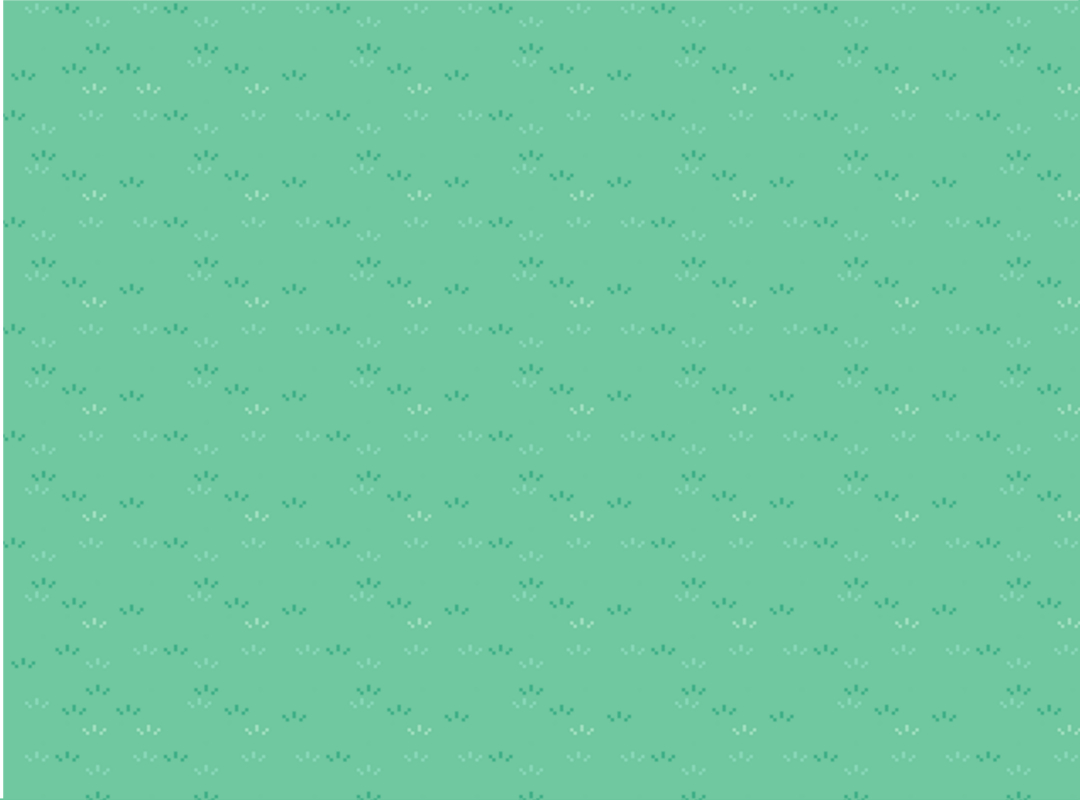
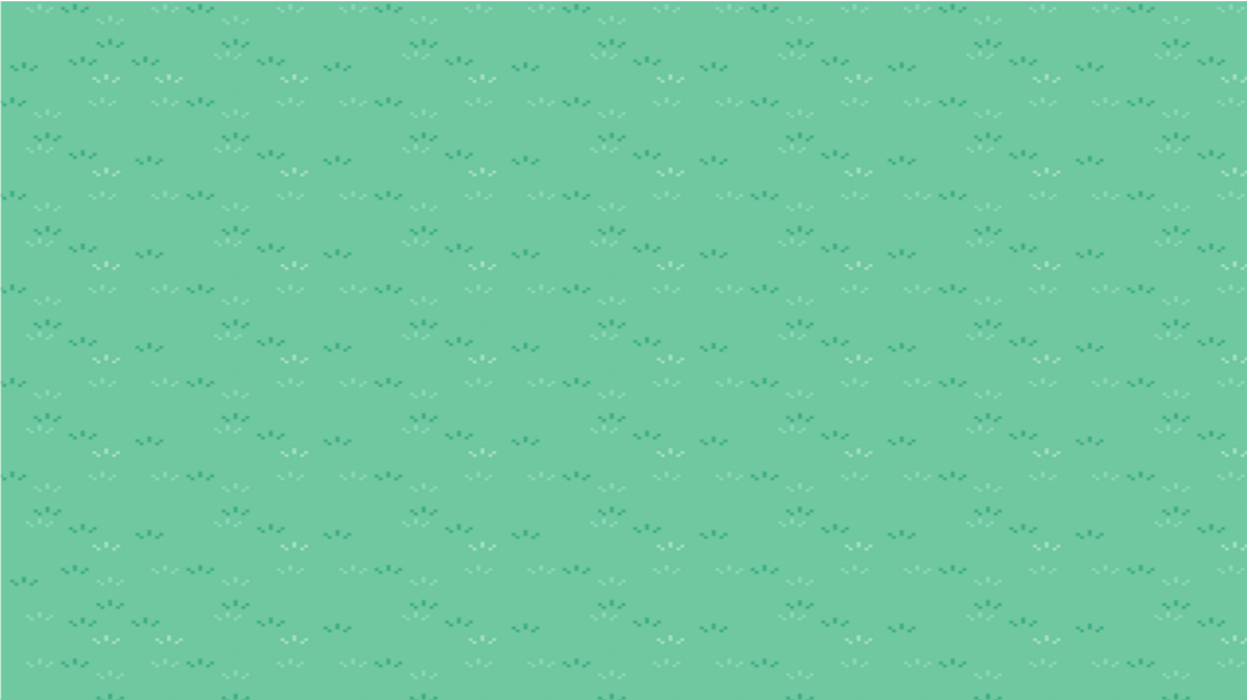
Amélioration de l'animation des projectiles et ajout d'un menu d'information (a completer) et introduire la class Menu (à détailler)

diff --git a/affichage.py b/affichage.py
@@ -2,7 +2,7 @@
 #encoding: utf8
 
 from joueur import *
-
+from menu import *
 class Affichage_fenetre:
 	def __init__(self, joueur):
 		self.projectile = []
@@ -10,20 +10,22 @@ class Affichage_fenetre:
 		self._tableau_type_armee = [1] # la position i de ce tableau renvoie le nombre de soldats de type i dans l'armee qui passe actuellement
 		self._listenoms_soldats = [[["images/armee/boss/boss_bas.png", "images/armee/boss/boss_bas_pd.png", "images/armee/boss/boss_bas_pg.png"], ["images/armee/boss/boss_gauche.png", "images/armee/boss/boss_gauche_pd.png", "images/armee/boss/boss_gauche_pg.png"], ["images/armee/boss/boss_haut.png", "images/armee/boss/boss_haut_pd.png", "images/armee/boss/boss_haut_pg.png"], ["images/armee/boss/boss_droite.png", "images/armee/boss/boss_droite_pd.png", "images/armee/boss/boss_droite_pg.png"]]]
 		self._joueur = joueur
-		self._fenetre = pygame.display.set_mode((self._joueur._carte._largeur, self._joueur._carte._hauteur))
+		self._fenetre = pygame.display.set_mode((self.carte.largeur, self.carte.hauteur+150))	# A MODIFIER
 		self._nb_decor = [5, 5] # 10 Rochers, 5 Arbres
 		self._liste_rochers = []
 		self._liste_arbre = []
 		self._bases = []
 		liste_x = [self.carte.nb_cases_l//10+3, (2*self.carte.nb_cases_l//5+3*self.carte.nb_cases_l//5)//2, 4*self.carte.nb_cases_l//5-2]
 		for x in liste_x:
-			pos_base = self._joueur._carte.positionner_objet((x, 0))
+			pos_base = self.carte.positionner_objet((x, 0))
 			self._bases.append(Base(pos_base, self._joueur))
-		self._places_construction = [(10,10), (15, 10), (3, 2)] # A MODIFIER
+		self._places_construction = [(11,10), (16, 10), (4, 2)] # A MODIFIER
 		self._chemin = []
+
 	@property
 	def carte(self):
 		return self._joueur._carte
+
 	@property
 	def joueur(self):
 		return self._joueur
@@ -31,23 +33,23 @@ class Affichage_fenetre:
 		element = pygame.image.load(nom_image).convert_alpha()
 		if "tour" in nom_image or "arbre" in nom_image:
 			self._fenetre.blit(element, (position[0], position[1]-\
-			self._joueur._carte._hauteur/self._joueur._carte.nb_cases_h))
+			self.carte.hauteur/self.carte.nb_cases_h))
 		else:
 			self._fenetre.blit(element, position)
 
 	def genere_decor(self):
 		for i in range(self._nb_decor[0]):
-			tmp1, tmp2 = np.random.randint(self._joueur._carte.nb_cases_l-1), np.random.randint(self._joueur._carte.nb_cases_h-1)
-			while self._joueur._carte[tmp1, tmp2] != "herbe":
-				tmp1, tmp2 = np.random.randint(self._joueur._carte.nb_cases_l-1), np.random.randint(self._joueur._carte.nb_cases_h-1)
-			pos_x, pos_y = self._joueur._carte.positionner_objet((tmp1,tmp2))
+			tmp1, tmp2 = np.random.randint(self.carte.nb_cases_l-1), np.random.randint(self.carte.nb_cases_h-1)
+			while self.carte[tmp1, tmp2] != "herbe":
+				tmp1, tmp2 = np.random.randint(self.carte.nb_cases_l-1), np.random.randint(self.carte.nb_cases_h-1)
+			pos_x, pos_y = self.carte.positionner_objet((tmp1,tmp2))
 			self._joueur._carte[tmp1, tmp2] = "decor" # La case devient un decor
 			self._liste_rochers.append((pos_x, pos_y))
 		for i in range(self._nb_decor[1]):
-			tmp1, tmp2 = np.random.randint(self._joueur._carte.nb_cases_l-1), np.random.randint(self._joueur._carte.nb_cases_h-1)
-			while self._joueur._carte[tmp1, tmp2] != "herbe":
-				tmp1, tmp2 = np.random.randint(self._joueur._carte.nb_cases_l-1), np.random.randint(self._joueur._carte.nb_cases_h-1)
-			pos_x, pos_y = self._joueur._carte.positionner_objet((tmp1,tmp2))
+			tmp1, tmp2 = np.random.randint(self.carte.nb_cases_l-1), np.random.randint(self.carte.nb_cases_h-1)
+			while self.carte[tmp1, tmp2] != "herbe":
+				tmp1, tmp2 = np.random.randint(self.carte.nb_cases_l-1), np.random.randint(self.carte.nb_cases_h-1)
+			pos_x, pos_y = self.carte.positionner_objet((tmp1,tmp2))
 			self._joueur._carte[tmp1, tmp2] = "decor" # La case devient un decor
 			self._liste_arbre.append((pos_x, pos_y))
 
@@ -112,20 +114,20 @@ class Affichage_fenetre:
 		# Affichage bases :
 		for b in self._bases:
 			self.ajouter_element("images/interface/base.png", b._position)
-			self._joueur._carte[self._joueur._carte.objet_dans_case(b._position)] = "base"
+			self._joueur._carte[self.carte.objet_dans_case(b._position)] = "base"
 		for pos in self._liste_rochers:
 			self.ajouter_element("images/interface/rock.png", pos)
-			self._joueur._carte[self._joueur._carte.objet_dans_case(pos)] = "decor"
+			self._joueur._carte[self.carte.objet_dans_case(pos)] = "decor"
 		# Affichage place de construction : A COMPLETER !
 		for pc in self._places_construction:
-			if self._joueur._carte[pc] != "tour":
-				pos_x, pos_y = self._joueur._carte.positionner_objet(pc)
+			if self.carte[pc] != "tour":
+				pos_x, pos_y = self.carte.positionner_objet(pc)
 				self._joueur._carte[pc] = "place construction" # La case devient une place de construction
 				self.ajouter_element("images/interface/place_construction.png", (pos_x, pos_y))
 		for pos in self._liste_arbre:
 			self.ajouter_element("images/interface/arbre.png", pos)
-			self._joueur._carte[self._joueur._carte.objet_dans_case(pos)] = "decor"
-		for T in self._joueur._liste_tours:
+			self._joueur._carte[self.carte.objet_dans_case(pos)] = "decor"
+		for T in self.joueur.liste_tours:
 			self.ajouter_element(self._listenoms_tours[T._id_tour], T._position)
 
 	def affichage_armee(self, armee):
@@ -138,4 +140,9 @@ class Affichage_fenetre:
 					self.ajouter_element(self._listenoms_soldats[type_soldat][soldat._direction][anim_soldat], soldat._position)
 	def affichage_projectile(self,projectile):
 		# im_projectile = pygame.image.load("images/tours/balle.png").convert_alpha()
-		self.ajouter_element("images/tours/balle.png",projectile._position)
+		if projectile._position != projectile._arrivee:
+			self.ajouter_element("images/tours/balle.png",projectile._position)
+
+	def affichage_menu(self):
+		pos_menu = self.carte.positionner_objet((0, 14))
+		self.ajouter_element("images/interface/menu_bas2.jpg", pos_menu)

diff --git a/tours.py b/tours.py
@@ -61,15 +61,15 @@ class Projectile():
     '''
     def __init__(self, position_Tour, position_Cible, id_projectile, joueur):
         global DT
+        self._joueur = joueur
         self._position_initiale = position_Tour
         self._position = position_Tour
         self._id = id_projectile
         self._arrivee = position_Cible
-        self._joueur = joueur
         v_x = (position_Cible[0]-position_Tour[0])//DT
         v_y = (position_Cible[1]-position_Tour[1])//DT
         self._vitesse = (v_x,v_y)
-        self._animation = 10 # Nombre d'étapes d'affichage
+        self._animation = 3. # Nombre d'étapes d'affichage
         self._etape = self._animation #Gere l'animation du projectile
     #
     # def bouge(self):
@@ -97,6 +97,7 @@ class Projectile():
         self._position = pos_tmp
         case_self = self._joueur._carte.objet_dans_case(self._position)
         self._etape=self._etape-1
+
     def is_over(self):
         if(self._etape==0):
             return True
@@ -151,16 +152,19 @@ class Tour:
                if distance_soldat < distance_cible:
                    cible = indice_soldat
                    distance_cible = distance_soldat
-        if cible != -1 and distance_cible != 10000000 and self._peut_tirer%4 != 0:
-            armee._liste_soldat[cible].vie = max(0,armee._liste_soldat[cible].vie-self._degat)
-            armee.maj_troupe()
+        if cible != -1 and distance_cible != 10000000 and self._peut_tirer%2 == 0:
+            P = Projectile(self._position, armee._liste_soldat[cible]._position, 0, self._joueur)
+            if self._joueur._carte.objet_dans_case(P._position) != self._joueur._carte.objet_dans_case(P._arrivee):
+                armee._liste_soldat[cible].vie = max(0,armee._liste_soldat[cible].vie-self._degat)
+                armee.maj_troupe()
             self._peut_tirer = False
-            return (True,Projectile(self._position, armee._liste_soldat[cible]._position, 0, self._joueur))
-        elif (self._peut_tirer%4 == 0):
+            return (True, P)
+        elif (self._peut_tirer%2 != 0):
             self._peut_tirer = True
             return (False,0)
         else:
             return (False,0)
+
 
 '''
 Polymorphisme de tours (pour plus tard)
@@ -168,21 +172,6 @@ Polymorphisme de tours (pour plus tard)
 #class Tour_d_Elite(Tour):
     #ajouter attribut/capacité : 2 attaques en simultannées
     #changer la portée par exemple'''
-
-'''
-class Tour:
-	def __init__(self, position, projectile,hp = 10, portee = 400, cout_construction=10, \
-	cout_entretien=2, cout_amelioration = 50, id_tour=1):
-		self._projectile = projectile
-		self._vie = hp
-		self._portee = portee
-		self._cout_construction = cout_construction
-		self._cout_entretien = cout_entretien
-		self._cout_amelioration = cout_amelioration
-		self._id_tour = id_tour
-		self._position = position
-  # A COMPLETER
-'''
 
 """P=Projectile((0,0),(10,10))
 P.bouge()

diff --git a/joueur.py b/joueur.py
@@ -13,15 +13,18 @@ class Joueur:
 	@property
 	def carte(self):
 		return self._carte
+	@property
+	def liste_tours(self):
+		return self._liste_tours
 	def gestion_tour(self, event):
 		if event.type == MOUSEBUTTONDOWN and event.button == 1:
-			pos_x, pos_y = self._carte.objet_dans_case(event.pos)
-			if self._carte[pos_x, pos_y] == "tour":
+			pos_x, pos_y = self.carte.objet_dans_case(event.pos)
+			if self.carte[pos_x, pos_y] == "tour":
 				# PROPOSER AMELIORATION OU REPARATION
 				print ("Amélioration ? Réparation ?")
-			elif self._carte[pos_x, pos_y] == "place construction":
-				pos_pix = pos_x*self._carte._largeur/self._carte._nb_cases_l\
-				, pos_y*self._carte._hauteur/self._carte._nb_cases_h
+			elif self.carte[pos_x, pos_y] == "place construction":
+				pos_pix = pos_x*self.carte._largeur/self.carte._nb_cases_l\
+				, pos_y*self.carte._hauteur/self.carte._nb_cases_h
 				T = Tour(pos_pix, self)
 				if T._cout_construction <= self._argent:
 					self._liste_tours.append(T)
@@ -34,10 +37,10 @@ class Joueur:
 	def affichage_portee(self, fenetre):
 		pos = pygame.mouse.get_pos()
 		pos_case = self.carte.objet_dans_case(pos)
-		if self._carte[pos_case] == "tour" :
-			tmp = self._carte.objet_dans_case(pos)
-			pos = self._carte.positionner_objet(tmp)
-			for T in self._liste_tours:
+		if self.carte[pos_case] == "tour" :
+			tmp = self.carte.objet_dans_case(pos)
+			pos = self.carte.positionner_objet(tmp)
+			for T in self.liste_tours:
 				if T._position == pos:
-					pos = self._carte.positionner_objet((tmp[0]+0.5, tmp[1]+0.5))
+					pos = self.carte.positionner_objet((tmp[0]+0.5, tmp[1]+0.5))
 					pygame.draw.circle(fenetre, (255, 255, 255), (int(pos[0]), int(pos[1])), T._portee, 2) # 100 = PORTEE TOUR

diff --git a/main.py b/main.py
@@ -33,6 +33,7 @@ def main():
 	F.affichage_statique()
 	last_time = time.time()
 	last_time_proj = time.time();
+	F.affichage_menu()
 	#Boucle infinie
 	while continuer:
 		pygame.display.flip()
@@ -54,9 +55,10 @@ def main():
 				tableau_projectile[i].bouge()
 				if(tableau_projectile[i].is_over()):
 					del(tableau_projectile[i])
+
 					i=i-1
 				i=i+1
-		if (time.time()-last_time > 0.2):
+		if (time.time()-last_time > 0.1):
 			A.mouvement_troupe(F._bases)
 			last_time = time.time()
 		if (temps % 10 == 0):

diff --git a/armee.py b/armee.py
@@ -20,7 +20,7 @@ class Soldat:
 		self._direction = 2 # 0 : bas, 1 : gauche, 2 : haut, 3 : droite
 		self._animation = 0 # 0 : statique 1 : pied droit 2 : pied gauche
 		self._position_objectifs= self._joueur._carte.positionner_objet(position_base)
-		self.pas = 1.
+		self.pas = 2.
 		self._voisins = [(0, int(self.pas)), (-int(self.pas),0), (0, -int(self.pas)), (int(self.pas), 0)] # FAIRE UN DICTIONNAIRE
 		self._chemin = []
 		self.liste_voisins = []

diff --git a/gestion_fenetre.py b/gestion_fenetre.py
@@ -15,8 +15,8 @@ import numpy.random as rd
 import time
 
 class Carte:
-	def __init__(self, hauteur=800, largeur=1000, nb_cases_h = 16, \
-	nb_cases_l = 20):
+	def __init__(self, hauteur=700, largeur=1250, nb_cases_h = 14, \
+	nb_cases_l = 25):
 		self._hauteur = hauteur
 		self._largeur = largeur
 		self._nb_cases_h = nb_cases_h

diff --git a/menu.py b/menu.py
@@ -1,0 +1,7 @@
+#!/usr/bin/python
+#encoding: utf8
+
+
+class Menu:
+    def __init__(self):
+        return 0
